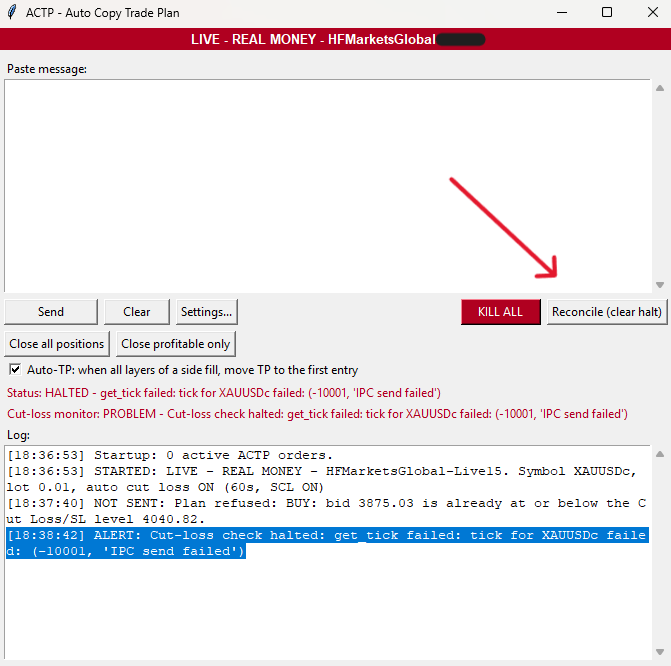
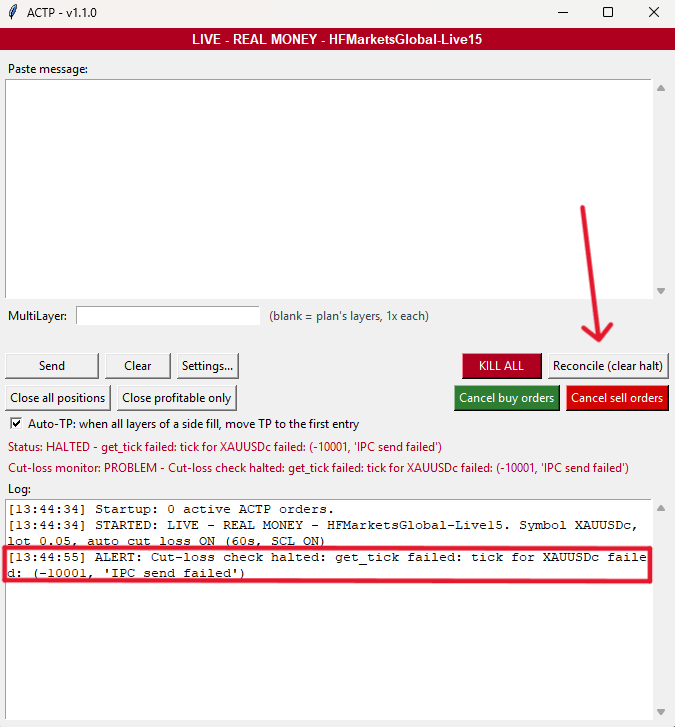
Update README

diff --git a/README.md b/README.md
@@ -2,33 +2,42 @@
 
 # ACTP – Auto Copy Trade Plan
 
-ACTP memasang serangkaian pending order berlapis di MT5 berdasarkan rencana trading yang Anda tempelkan, lalu mengelolanya setelah itu (Cut Loss, tombol penutupan, Auto-TP). ACTP tidak membaca WhatsApp secara otomatis: Anda harus menyalin dan menempelkan setiap pesan secara manual.
+ACTP memasang sekumpulan pending order MT5 berlapis (layer) dari trade plan yang kamu tempel, lalu mengelolanya setelah itu (Cut Loss, tombol close, Auto-TP). ACTP tidak pernah membaca WhatsApp untukmu: kamu menyalin dan menempel setiap pesan sendiri.
 
 > [!WARNING]
-> ACTP memasang **order sungguhan** pada akun MetaTrader 5 yang sedang login dan dapat menyebabkan kerugian. ACTP diberikan **TANPA JAMINAN APA PUN** (lihat file LICENSE). ACTP bukan nasihat keuangan dan tidak berafiliasi dengan penyedia sinyal, WhatsApp, MetaQuotes, atau broker mana pun. Anda bertanggung jawab atas setiap order. Uji terlebih dahulu menggunakan akun demo.
+> ACTP memasang **order sungguhan** di akun MetaTrader 5 yang sedang login dan dapat menyebabkan kerugian. ACTP diberikan **TANPA GARANSI** (lihat file LICENSE). Ini bukan nasihat keuangan dan tidak berafiliasi dengan penyedia sinyal, WhatsApp, MetaQuotes, maupun broker mana pun. Kamu bertanggung jawab atas setiap order. Coba dulu di akun demo.
+
+## 🎬 Video tutorial
+
+<p align="center">
+  <a href="https://youtu.be/d0bM5Vmml2w">
+    <img src="docs\ACTP tutorial.png" width="500" alt="Video tutorial ACTP">
+  </a>
+</p>
+
 
 ## 💻 Persyaratan
 
-Sebelum memasang ACTP, pastikan Anda memiliki:
+Sebelum memasang ACTP, pastikan kamu punya:
 
 - Windows 10 atau Windows 11 (64-bit).
 - Terminal desktop MetaTrader 5.
-- Akun MT5 bertipe hedging. Pada akun netting, layer dari satu sisi akan digabung menjadi satu posisi. ACTP tidak akan berjalan pada akun netting.
-- Algo Trading dalam keadaan AKTIF pada toolbar MT5.
-- MT5 harus tetap terbuka dan sudah login selama ACTP digunakan.
-- Broker Anda menyediakan simbol XAUUSD (XAUUSD, XAUUSDc, XAUUSDm, XAUUSD.r, dan sebagainya).
+- Akun MT5 bertipe hedging. Pada akun netting, layer dalam satu sisi menyatu menjadi satu posisi. ACTP menolak berjalan di akun netting.
+- Algo Trading dalam keadaan ON di toolbar MT5.
+- MT5 harus terbuka dan sudah login setiap kali ACTP berjalan.
+- Brokermu menyediakan simbol XAUUSD (XAUUSD, XAUUSDc, XAUUSDm, XAUUSD.r, dan sebagainya).
 
 ## 📥 Unduh
 
 Unduh rilis ACTP terbaru dari halaman GitHub Releases resmi:
 
-**[KLIK DI SINI UNTUK MENGUNDUH ACTP – RILIS TERBARU](https://github.com/ALtera21/ACTP/releases/download/v1.0.2/dist.zip)**
+**[KLIK DI SINI UNTUK MENGUNDUH ACTP – RILIS TERBARU](https://github.com/ALtera21/ACTP/releases/download/v1.1.0/dist.zip)**
 
 1. Unduh file `.zip` yang tersedia di bagian **Assets**.
-2. Ekstrak ZIP ke direktori yang Anda inginkan.
-3. Jalankan `ACTP.exe` dari folder hasil ekstraksi. Biarkan file tersebut tetap berada bersama folder `_internal`; jangan pindahkan file exe ke lokasi lain atau menjalankannya langsung dari dalam file ZIP.
+2. Ekstrak file ZIP ke folder pilihanmu.
+3. Jalankan `ACTP.exe` dari folder hasil ekstrak. Biarkan tetap bersama folder `_internal`; jangan memindahkan exe ke tempat lain atau menjalankannya dari dalam ZIP.
 
-> **Catatan:** Windows SmartScreen mungkin menampilkan peringatan karena aplikasi belum ditandatangani: pilih “More info → Run anyway”. File exe PyInstaller juga dapat memicu deteksi antivirus yang keliru (false positive).
+> **Catatan:** Windows SmartScreen mungkin memperingatkan bahwa aplikasi ini belum ditandatangani: “More info → Run anyway”. Exe buatan PyInstaller juga sering memicu false positive pada antivirus.
 
 Contoh:
 
@@ -36,130 +45,151 @@ Contoh:
 C:\ACTP
 ```
 
-**Verifikasi file unduhan (v1.0.1):** jalankan perintah berikut di PowerShell:
-
+**Verifikasi unduhanmu (v1.1.0):** di PowerShell jalankan
 ```powershell
 Get-FileHash .\dist.zip -Algorithm SHA256
 ```
-
[2 lines of base64/hex data omitted]
 
 ## 🚀 Pengaturan ACTP
 
-1. Buka MetaTrader 5, login, lalu aktifkan **Algo Trading**.
+1. Buka MetaTrader 5, login, dan nyalakan **Algo Trading**.
 2. Klik dua kali `ACTP.exe`.
-3. **Hanya saat pertama kali dijalankan:** baca pemberitahuan risiko lalu klik OK. Jendela Settings akan terbuka:
-   - Pilih simbol XAUUSD milik broker Anda (**Detect from MT5** akan mengisi daftar secara otomatis).
-   - Atur lot untuk setiap order.
-   - Pilih opsi Cut Loss (lihat penjelasan di bawah).
-   - Klik **Save**. ACTP akan memulai ulang secara otomatis.
-4. Banner pada jendela menunjukkan jenis akun yang sedang digunakan: **merah = UANG SUNGGUHAN**, **hijau = DEMO**. Cobalah terlebih dahulu menggunakan akun demo.
-5. Salin rencana trading dari WhatsApp, tempelkan ke kotak teks, klik **Send**, periksa ringkasannya, lalu konfirmasikan.
+3. **Hanya saat pertama kali dijalankan:** baca pemberitahuan risiko dan klik OK. Jendela Settings akan terbuka:
+   - Pilih simbol XAUUSD milik brokermu (**Detect from MT5** mengisi daftarnya).
+   - Atur lot per order.
+   - Pilih opsi Cut Loss (lihat di bawah).
+   - Klik **Save**. ACTP akan restart sendiri.
+4. Banner di jendela menunjukkan akun yang sedang dipakai: **merah = UANG ASLI**, **hijau = DEMO**. Coba dulu di akun demo.
+5. Salin trade plan dari WhatsApp, tempel ke kotak, klik **Send**, baca ringkasannya, lalu konfirmasi.
 
-Pengaturan, log, dan rencana yang tersimpan berada di `%APPDATA%\ACTP` (`settings.json`, `logs\`, `state\`). Untuk menghapus ACTP, hapus folder ACTP dan `%APPDATA%\ACTP`.
+Pengaturan, log, dan plan yang tersimpan berada di `%APPDATA%\ACTP` (`settings.json`, `logs\`, `state\`). Untuk menghapus ACTP, hapus folder ACTP dan `%APPDATA%\ACTP`.
 
-**Penting:** pengaturan hanya dapat disimpan ketika MT5 sedang terbuka karena ACTP perlu memeriksa simbol dan lot berdasarkan batasan broker Anda.
+**Penting:** pengaturan hanya bisa disimpan saat MT5 terbuka, karena ACTP memeriksa simbol dan lot terhadap brokermu.
 
 ## 🖥 Menggunakan ACTP
 
-### Pesan yang dapat diproses ACTP
+### Pesan yang dipahami ACTP
 
-| Pesan | Tindakan ACTP |
+| Pesan | Yang dilakukan ACTP |
 |---|---|
-| `PLAN XAUUSDr` dengan bagian BUY LIMIT dan/atau SELL LIMIT | Mengganti rencana yang sedang aktif pada sisi tersebut dan memasang satu pending order untuk setiap layer. |
+| `PLAN XAUUSDr` dengan bagian BUY LIMIT dan/atau SELL LIMIT | Menggantikan plan saat ini pada sisi tersebut dan memasang satu pending order per layer. |
 | `UPDATE XAUUSDr BUY\|SELL` dengan `SL: a ➜ b` dan/atau `TP: a ➜ b` | Mengubah SL/TP pada order di sisi tersebut. |
-| `CLOSE XAUUSDr BUY\|SELL` | Menutup **posisi yang sudah terbuka** pada sisi tersebut. Pending order di sisi tersebut tetap aktif. |
-| `XAUUSDr BUY\|SELL - Entry ter-fill` | Hanya dicatat. Tidak ada order yang dikirim. |
+| `CLOSE XAUUSDr BUY\|SELL` | Menutup **posisi yang sedang terbuka** pada sisi tersebut. Pending order di sisi itu tetap ada. |
+| `XAUUSDr BUY\|SELL - Entry ter-fill` | Hanya dicatat. Tidak ada yang dikirim. |
 
-Batasan: 2 hingga 20 layer per sisi, maksimal 12 order untuk setiap rencana, dan harga harus menggunakan 2 angka desimal. Teks yang sama persis dan ditempelkan dua kali dalam rentang 30 detik akan ditolak.
+Batasan: 2 sampai 20 layer per sisi, paling banyak 12 order per plan, harga dengan 2 desimal. Menempel teks yang persis sama dua kali dalam 30 detik akan ditolak.
 
-### Kontrol jendela
+### Kontrol di jendela
 
-| Kontrol | Fungsi |
+| Kontrol | Fungsinya |
 |---|---|
-| **Paste box** | Tempat Anda menempelkan pesan. |
-| **Send** | Memproses pesan, menampilkan ringkasan (termasuk jumlah layer yang akan terisi pada harga pasar saat ini), lalu mengirimkannya setelah Anda mengonfirmasi. |
-| **Clear** | Mengosongkan kotak teks. |
-| **Settings...** | Membuka jendela pengaturan. Perubahan akan diterapkan setelah ACTP dimulai ulang (ACTP akan menawarkan untuk melakukannya). |
-| **Reconcile (clear halt)** | Setelah operasi gagal, ACTP akan berhenti (status menunjukkan HALTED). Periksa MT5, tekan tombol ini untuk membaca ulang kondisi akun, lalu kirim ulang pesan yang sama untuk melanjutkan. (Anggap saja tombol ini sebagai tombol refresh.) |
-| **KILL ALL** | Membatalkan semua pending order ACTP dan menutup semua posisi ACTP yang terbuka. Tindakan ini memerlukan konfirmasi. |
-| **Close all positions** | Hanya menutup posisi yang terbuka. Pending order tetap aktif. |
-| **Close profitable only** | Hanya menutup posisi yang sedang menghasilkan profit. Spread diperhitungkan; swap dan komisi tidak diperhitungkan. |
-| Kotak centang **Auto-TP** | Ketika semua layer pada suatu sisi sudah terisi, TP sisi tersebut dipindahkan ke harga entry pertama atau `proximal` (BUY: layer tertinggi, SELL: layer terendah). Dilakukan satu kali untuk setiap rencana dan sisi. Fitur ini selalu NONAKTIF setiap kali ACTP dijalankan. |
+| **Paste box** | Tempat menempel pesan. |
+| Kotak **MultiLayer** | Opsional. Menentukan lot setiap layer dan jumlah layer untuk plan yang kamu kirim berikutnya (lihat "MultiLayer" di bawah). Kosong = jumlah layer sesuai plan, masing-masing satu base lot. |
+| **Send** | Membaca pesan, menampilkan ringkasan (termasuk berapa layer yang akan langsung terisi di harga pasar saat ini), lalu mengirimnya setelah kamu konfirmasi. |
+| **Clear** | Mengosongkan paste box. |
+| **Settings...** | Membuka jendela pengaturan. Perubahan berlaku setelah restart (ACTP menawarkannya). |
+| **Reconcile (clear halt)** | Setelah suatu operasi gagal, ACTP berhenti (status menunjukkan HALTED). Periksa MT5, tekan tombol ini untuk membaca ulang kondisinya, lalu Send pesan yang sama lagi untuk melanjutkan. (Anggap ini seperti tombol refresh) |
+| **KILL ALL** | Membatalkan semua pending order ACTP dan menutup semua posisi terbuka ACTP. Meminta konfirmasi. |
+| **Close all positions** | Hanya menutup posisi yang terbuka. Pending order tetap ada. |
+| **Close profitable only** | Hanya menutup posisi yang sedang untung. Spread dihitung; swap dan komisi tidak. |
+| **Cancel buy orders** / **Cancel sell orders** | Hanya membatalkan **pending order** pada sisi tersebut. Posisi yang terbuka tetap terbuka dan tetap dilindungi SL/TP dan Cut Loss. Meminta konfirmasi dan menampilkan berapa order yang akan dibatalkan. Tidak berjalan saat HALTED: tekan Reconcile dulu. |
+| Kotak centang **Auto-TP** | Saat semua layer pada satu sisi sudah terisi, TP sisi itu dipindah ke entry pertamanya, alias `proximal` (BUY: layer tertinggi, SELL: layer terendah). Sekali per plan dan per sisi. Selalu OFF setiap kali ACTP dijalankan. |
 
 > [!NOTE]
-> ACTP hanya mengelola order yang dipasangnya sendiri. Transaksi manual Anda tidak akan diubah.
+> ACTP hanya menyentuh order yang dipasangnya sendiri. Trade manualmu tidak pernah diubah.
 
 <p align="center">
-  <img src="docs\main-screen.png" width="400" alt="Dasbor utama">
+  <img src="docs\main-screen.png" width="400" alt="Dashboard proyek">
 </p>
 
 <p align="center">
-  <img src="docs\halted.png" width="400" alt="Terjadi kesalahan dan sistem berhenti; tekan tombol Reconcile">
+  <img src="docs\halted.png" width="400" alt="Error halted, tekan tombol Reconcile">
 </p>
 
-### Rencana yang terlambat
+### MultiLayer
 
-Jika Anda menempelkan rencana setelah harga bergerak masuk ke area rencana tersebut, layer yang harga entry-nya sudah terlewati akan dibeli **pada harga pasar (market)**, bukan ditolak. Ringkasan pada tombol Send menunjukkan pembagian layer tersebut. Rencana akan ditolak jika:
+Kotak **MultiLayer** di bawah paste box memungkinkan kamu menentukan ukuran setiap layer, dan berapa banyak layer, untuk plan yang kamu kirim berikutnya. Ketik satu angka per layer, misalnya `1, 1, 1, 1, 2, 2`. Setiap angka mengalikan **Lot per order** dari Settings (base lot).
 
-- Jumlah layer yang akan terisi pada harga pasar melebihi **Max layers at market per side**, atau
-- Harga sudah melewati Cut Loss atau SL pada sisi tersebut.
+| Base lot | MultiLayer | Hasil |
+|---|---|---|
+| 0.06 | `1, 1, 1, 1, 2, 2` | 6 layer: 0.06 x 4, lalu 0.12 x 2 |
+| 0.06 | `1, 1, 1, 2` | 4 layer: 0.06 x 3, lalu 0.12 x 1 |
+
+<p align="center">
+  <img src="docs/multilayer.gif" width="500" alt="Mengetik daftar MultiLayer dan melihat lot setiap layer">
+</p>
+
+- **Layer 1 adalah harga pertama yang dicapai pasar** (BUY: entry tertinggi, SELL: entry terendah). Lot yang lebih besar pada contoh di atas berada di layer yang paling dalam.
+- Daftar angka juga menentukan jumlah layer. ACTP membagi area plan secara merata menjadi sebanyak itu layer, berapa pun jumlah layer yang tertulis di pesan.
+- **Biarkan kosong** untuk bekerja seperti biasa: jumlah layer sesuai pesan, masing-masing satu base lot.
+- Daftar yang sama dipakai untuk BUY dan SELL. Pesan UPDATE dan CLOSE tidak terpengaruh.
+- Gunakan 2 sampai 12 angka, masing-masing di atas 0 dan paling besar 10. Desimal seperti `1.5` boleh selama lot hasilnya kelipatan 0.01. Batas total 12 order per plan tetap berlaku, jadi daftar dengan lebih dari 6 angka hanya bisa dipakai pada plan satu sisi.
+- Ringkasan Send menampilkan lot setiap layer dan totalnya per sisi. ACTP juga memeriksa lot terhadap minimum, step, dan maksimum brokermu sebelum apa pun dikirim.
+- Kotak ini **tidak disimpan** dan **tidak dikosongkan setelah Send**. Selama terisi, baris oranye di bawahnya menunjukkan lot yang akan dipakai.
+- Jika plan terhenti di tengah jalan (HALTED), Send pesan yang sama lagi dengan nilai MultiLayer yang **sama** untuk melanjutkannya. Nilai yang berbeda akan memulai plan baru.
+- **Max layers at market per side** menghitung jumlah layer, bukan lot, jadi layer besar dihitung sama dengan layer kecil.
+
+### Plan yang terlambat
+
+Jika kamu menempel plan setelah harga sudah bergerak masuk ke areanya, layer yang harga entry-nya sudah tercapai akan dibeli **di harga pasar** alih-alih gagal. Ringkasan Send menampilkan pembagiannya. Plan ditolak jika:
+- lebih banyak layer daripada **Max layers at market per side** yang akan terisi di harga pasar, atau
+- harga sudah melewati Cut Loss atau SL sisi tersebut.
 
 ### Cut Loss
 
-Jika **Auto cut loss** aktif, ACTP akan menutup seluruh order pada satu sisi (membatalkan pending order dan menutup posisi yang terbuka) ketika:
+Dengan **Auto cut loss** aktif, ACTP menutup satu sisi penuh (membatalkan pending, menutup yang terbuka) ketika:
+1. harga (BUY: bid, SELL: ask) bertahan melewati Cut Loss plan selama **hold time** tanpa terputus, **dan**
+2. jika **SCL** aktif, harga juga berada di atau melewati garis Stop Cut Loss pada saat itu.
 
-1. Harga (BUY: bid, SELL: ask) tetap berada di luar batas Cut Loss pada rencana selama **hold time** tanpa terputus, **dan**
-2. Jika **SCL** aktif, harga juga harus sudah mencapai atau melewati garis Stop Cut Loss pada saat itu.
+SCL berada di antara Cut Loss dan SL, pada persentase yang dipilih dari jarak Cut Loss ke SL. Jeda lebih dari 15 detik antar pengecekan harga akan mengulang timer dari awal. Dengan auto cut loss **off**, tidak ada yang menutup sisi secara otomatis: hanya SL/TP di broker, KILL ALL, atau kamu sendiri.
 
-SCL berada di antara Cut Loss dan SL, pada persentase jarak yang dipilih dari Cut Loss menuju SL. Jika jeda antara pemeriksaan harga lebih dari 15 detik, timer akan dimulai ulang. Jika Auto cut loss **nonaktif**, tidak ada sisi yang akan ditutup secara otomatis: penutupan hanya dilakukan oleh SL/TP broker, KILL ALL, atau oleh Anda sendiri.
-
-**Cut Loss dan Auto-TP hanya berjalan selama jendela ACTP tetap terbuka.** Saat Anda menutup jendela, ACTP akan meminta konfirmasi karena pemantauan akan berhenti. Order tetap memiliki SL/TP yang tersimpan di broker.
+**Cut Loss dan Auto-TP hanya berjalan selama jendela ACTP terbuka.** Menutup jendela akan meminta konfirmasi, karena pemantauan berhenti. Order tetap memiliki SL/TP-nya di broker.
 
 ## 📋 Konfigurasi Trading
 
-Atur opsi berikut melalui **Settings...**. Nilai bawaan ditampilkan di bawah ini.
+Atur ini di **Settings...**. Nilai bawaan (default) ditampilkan.
 
-| Pengaturan | Bawaan | Nilai yang diizinkan | Keterangan |
+| Pengaturan | Default | Yang diizinkan | Arti |
 |---|---|---|---|
-| Simbol XAUUSD | `XAUUSDc` | Varian XAUUSD apa pun (`XAUUSD`, `XAUUSDm`, `XAUUSD.r`, ...) | Satu-satunya simbol yang akan ditransaksikan ACTP. Pesan selalu menggunakan `XAUUSDr`; itu adalah nama simbol dari penyedia sinyal, bukan nama simbol broker Anda. |
-| Lot per order | 0.01 | 0.01 hingga 10, kelipatan 0.01 | Volume untuk setiap layer. Harus sesuai dengan batasan broker Anda. |
-| Max layers at market per side | 3 | 0 hingga 12 | Lihat bagian "Rencana yang terlambat". |
-| Auto cut loss | Aktif | Aktif / Nonaktif | Lihat bagian "Cut Loss". |
-| Hold time | 60 dtk | 10 hingga 3600 | Durasi pelanggaran batas Cut Loss yang harus berlangsung sebelum tindakan dilakukan. |
-| SCL | Aktif | Aktif / Nonaktif | Harga juga harus mencapai garis Stop Cut Loss. |
-| SCL distance | 15% | 5 hingga 95 | Jarak garis SCL dari Cut Loss menuju SL, dalam persentase. |
+| XAUUSD symbol | `XAUUSDc` | Varian XAUUSD apa pun (`XAUUSD`, `XAUUSDm`, `XAUUSD.r`, ...) | Satu-satunya simbol yang akan diperdagangkan ACTP. Pesan selalu menulis `XAUUSDr`; itu nama dari penyedia sinyal, bukan namamu. |
+| Lot per order | 0.01 | 0.01 sampai 10, kelipatan 0.01 | Volume setiap layer (base lot yang dikalikan MultiLayer). Harus sesuai batas brokermu. |
+| Max layers at market per side | 3 | 0 sampai 12 | Lihat "Plan yang terlambat". |
+| Auto cut loss | On | On / Off | Lihat "Cut Loss". |
+| Hold time | 60 s | 10 sampai 3600 | Berapa lama pelanggaran Cut Loss harus bertahan. |
+| SCL | On | On / Off | Harga juga harus mencapai garis Stop Cut Loss. |
+| SCL distance | 15 % | 5 sampai 95 | Seberapa jauh garis SCL dari Cut Loss menuju SL. |
 
-Simbol Anda harus mendukung setidaknya 2 angka desimal pada harga.
+Simbolmu harus memiliki minimal 2 desimal harga.
 
 <p align="center">
-  <img src="docs\settings.png" width="400" alt="Jendela pengaturan">
+  <img src="docs\settings.png" width="400" alt="Jendela pengaturan ACTP">
 </p>
 
 > **Catatan:**
-> Ukuran lot yang tercantum dalam rencana trading WhatsApp asli akan diabaikan. ACTP menggunakan volume yang Anda atur sendiri.
+Ukuran lot yang tertulis di trading plan WhatsApp asli diabaikan. ACTP memakai volume yang kamu atur sendiri.
 
 ## ⚠ Catatan Penting
 
-- ACTP tidak memiliki mode dry-run. Uji terlebih dahulu menggunakan akun demo, jalankan satu salinan ACTP untuk setiap akun, pastikan PC tidak masuk mode tidur dan jendela ACTP tetap terbuka, periksa banner serta server, dan pahami bahwa semua risiko menjadi tanggung jawab Anda.
-- Pastikan terminal MT5 terhubung ke akun trading yang benar.
-- Jangan pernah menggunakan rilis yang belum diverifikasi untuk trading langsung.
-- Trading memiliki risiko finansial. Anda bertanggung jawab untuk mengatur dan memantau lingkungan trading Anda.
+- ACTP tidak punya mode dry-run. Coba dulu di akun demo, satu salinan per akun, biarkan PC tetap menyala dan jendela tetap terbuka, periksa banner dan server, risiko ada di tanganmu.
+- Pastikan terminal MT5-mu terhubung ke akun trading yang benar.
+- Jangan pernah memakai rilis yang belum diverifikasi untuk trading live.
+- Trading mengandung risiko keuangan. Kamu bertanggung jawab untuk mengatur dan memantau lingkungan tradingmu.
 
 ## 🐛 Pemecahan Masalah
 
-| Pesan | Tindakan |
+| Pesan | Yang harus dilakukan |
 |---|---|
-| `Cannot start: ...` | Buka MetaTrader 5, login, aktifkan Algo Trading, lalu jalankan ACTP kembali. |
+| `Cannot start: ...` | Buka MetaTrader 5, login, nyalakan Algo Trading, lalu jalankan ACTP lagi. |
 | `Cannot read your settings file` | Perbaiki atau hapus `%APPDATA%\ACTP\settings.json`. |
-| `Status: HALTED` | Periksa MT5, tekan **Reconcile**, lalu kirim ulang pesan yang sama untuk melanjutkan. |
-| Windows memblokir aplikasi | Pilih More info → Run anyway (lihat bagian Unduh). |
-| This account is not a HEDGING account | Gunakan akun bertipe hedging. Hubungi broker Anda jika diperlukan. |
+| `Status: HALTED` | Periksa MT5, tekan **Reconcile**, lalu Send pesan yang sama lagi untuk melanjutkan. |
+| Windows memblokir aplikasi | More info → Run anyway (lihat bagian Unduh). |
+| This account is not a HEDGING account | Gunakan akun hedging. Tanyakan ke brokermu. |
 
-**Log:** ACTP membuat satu file log per hari di `%APPDATA%\ACTP\logs\actp.log` (menyimpan log selama 30 hari). Tempelkan `%APPDATA%\ACTP\logs` pada bilah alamat File Explorer untuk membuka folder tersebut. Jika Anda melaporkan masalah, sertakan baris log yang relevan. Log berisi nama server broker, tiket order, dan harga; periksa informasi tersebut sebelum membagikannya secara publik.
+**Log:** ACTP menulis satu file log per hari ke `%APPDATA%\ACTP\logs\actp.log` (disimpan 30 hari). Tempel `%APPDATA%\ACTP\logs` ke address bar File Explorer untuk membuka foldernya. Jika kamu melaporkan masalah, lampirkan baris yang relevan. Log berisi nama server brokermu, tiket order, dan harga, jadi periksa dulu sebelum diposting ke publik.
 
-Laporkan bug dan ajukan pertanyaan melalui issue pada repositori GitHub.
+Bug dan pertanyaan: buka issue di repositori GitHub.
 
 ## 📄 Lisensi
 
-Lihat file LICENSE pada repositori untuk mengetahui ketentuan lisensi dan penggunaan.
+Lihat file LICENSE di repositori untuk ketentuan lisensi dan penggunaan.

diff --git a/README.gb.md b/README.gb.md
@@ -7,6 +7,15 @@ ACTP places a layered set of MT5 pending orders from a trade plan you paste in, 
 > [!WARNING]
 > ACTP places **real orders** on the MetaTrader 5 account that is logged in and can lose money. It comes with **NO WARRANTY** (see the LICENSE file). It is not financial advice and is not affiliated with any signal provider, WhatsApp, MetaQuotes or any broker. You are responsible for every order. Test on a demo account first.
 
+## 🎬 Video tutorial
+
+<p align="center">
+  <a href="https://youtu.be/d0bM5Vmml2w">
+    <img src="docs\ACTP tutorial.png" width="500" alt="ACTP tutorial video">
+  </a>
+</p>
+
+
 ## 💻 Requirements
 
 Before installing ACTP, make sure you have:
@@ -22,7 +31,7 @@ Before installing ACTP, make sure you have:
 
 Download the latest ACTP release from the official GitHub Releases page:
 
-**[CLICK HERE TO DOWNLOAD ACTP – LATEST RELEASE](https://github.com/ALtera21/ACTP/releases/download/v1.0.2/dist.zip)**
+**[CLICK HERE TO DOWNLOAD ACTP – LATEST RELEASE](https://github.com/ALtera21/ACTP/releases/download/v1.1.0/dist.zip)**
 
 1. Download the provided `.zip` file under **Assets**.
 2. Extract the ZIP file to your preferred directory.
@@ -36,11 +45,11 @@ Example:
 C:\ACTP
 ```
 
-**Verify your download (v1.0.1):** in PowerShell run
+**Verify your download (v1.1.0):** in PowerShell run
 ```powershell
 Get-FileHash .\dist.zip -Algorithm SHA256
 ```
[2 lines of base64/hex data omitted]
 
 ## 🚀 ACTP setup
 
@@ -76,6 +85,7 @@ Limits: 2 to 20 layers per side, at most 12 orders per plan, prices with 2 decim
 | Control | What it does |
 |---|---|
 | **Paste box** | Where you paste the message. |
+| **MultiLayer** box | Optional. Sets the lot of each layer and the number of layers for the plan you send next (see "MultiLayer" below). Blank = the plan's own layer count, one base lot each. |
 | **Send** | Parses the message, shows a summary (including how many layers would fill at market right now), and sends it after you confirm. |
 | **Clear** | Empties the paste box. |
 | **Settings...** | Opens the settings window. Changes apply after a restart (ACTP offers one). |
@@ -83,6 +93,7 @@ Limits: 2 to 20 layers per side, at most 12 orders per plan, prices with 2 decim
 | **KILL ALL** | Cancels every pending ACTP order and closes every open ACTP position. Asks to confirm. |
 | **Close all positions** | Closes open positions only. Pending orders stay. |
 | **Close profitable only** | Closes only the positions currently in profit. Spread is counted; swap and commission are not. |
+| **Cancel buy orders** / **Cancel sell orders** | Cancels the **pending** orders of that side only. Open positions stay open and keep their SL/TP and Cut Loss protection. Asks to confirm and shows how many orders will be cancelled. Does not run while HALTED: press Reconcile first. |
 | **Auto-TP** checkbox | When every layer of a side is filled, moves that side's TP to its first entry a.k.a the `proximal` (BUY: the highest layer, SELL: the lowest). Once per plan and side. Starts OFF every time ACTP starts. |
 
 > [!NOTE]
@@ -95,6 +106,29 @@ Limits: 2 to 20 layers per side, at most 12 orders per plan, prices with 2 decim
 <p align="center">
   <img src="docs\halted.png" width="400" alt="Error halted, press reconcile button">
 </p>
+
+### MultiLayer
+
+The **MultiLayer** box under the paste box lets you choose the size of every layer, and how many layers there are, for the next plan you send. Type one number per layer, for example `1, 1, 1, 1, 2, 2`. Each number multiplies the **Lot per order** from Settings (the base lot).
+
+| Base lot | MultiLayer | Result |
+|---|---|---|
+| 0.06 | `1, 1, 1, 1, 2, 2` | 6 layers: 0.06 x 4, then 0.12 x 2 |
+| 0.06 | `1, 1, 1, 2` | 4 layers: 0.06 x 3, then 0.12 x 1 |
+
+<p align="center">
+  <img src="docs/multilayer.gif" width="500" alt="Typing a MultiLayer list and seeing the lot of each layer">
+</p>
+
+- **Layer 1 is the first price the market reaches** (BUY: the highest entry, SELL: the lowest entry). The larger lots in the examples above are the deepest layers.
+- The list sets the layer count too. ACTP spreads that many layers evenly across the plan's area, whatever number of layers the message says.
+- **Leave the box blank** to work as before: the message's layer count, one base lot each.
+- The same list is used for BUY and SELL. It is ignored by UPDATE and CLOSE messages.
+- Use 2 to 12 numbers, each above 0 and at most 10. Decimals such as `1.5` are fine if the resulting lot is a multiple of 0.01. The total of 12 orders per plan still applies, so a list of more than 6 numbers only works on a one-sided plan.
+- The Send summary lists the lot of every layer and the total per side. ACTP also checks the lots against your broker's minimum, step and maximum before anything is sent.
+- The box is **not saved** and is **not cleared after Send**. While it is filled, an orange line below it shows the lots that will be used.
+- If a plan is interrupted (HALTED), Send the same message again with the **same** MultiLayer value to resume it. A different value starts a new plan.
+- **Max layers at market per side** counts layers, not lots, so a larger layer counts the same as a small one.
 
 ### Late plans
 
@@ -119,7 +153,7 @@ Set these in **Settings...**. Defaults are shown.
 | Setting | Default | Allowed | Meaning |
 |---|---|---|---|
 | XAUUSD symbol | `XAUUSDc` | Any XAUUSD variant (`XAUUSD`, `XAUUSDm`, `XAUUSD.r`, ...) | The only symbol ACTP will trade. Messages always say `XAUUSDr`; that is the provider's name, not yours. |
-| Lot per order | 0.01 | 0.01 to 10, steps of 0.01 | Volume of each layer. Must fit your broker's limits. |
+| Lot per order | 0.01 | 0.01 to 10, steps of 0.01 | Volume of each layer (the base lot that MultiLayer multiplies). Must fit your broker's limits. |
 | Max layers at market per side | 3 | 0 to 12 | See "Late plans". |
 | Auto cut loss | On | On / Off | See "Cut Loss". |
 | Hold time | 60 s | 10 to 3600 | How long a Cut Loss breach must last. |
